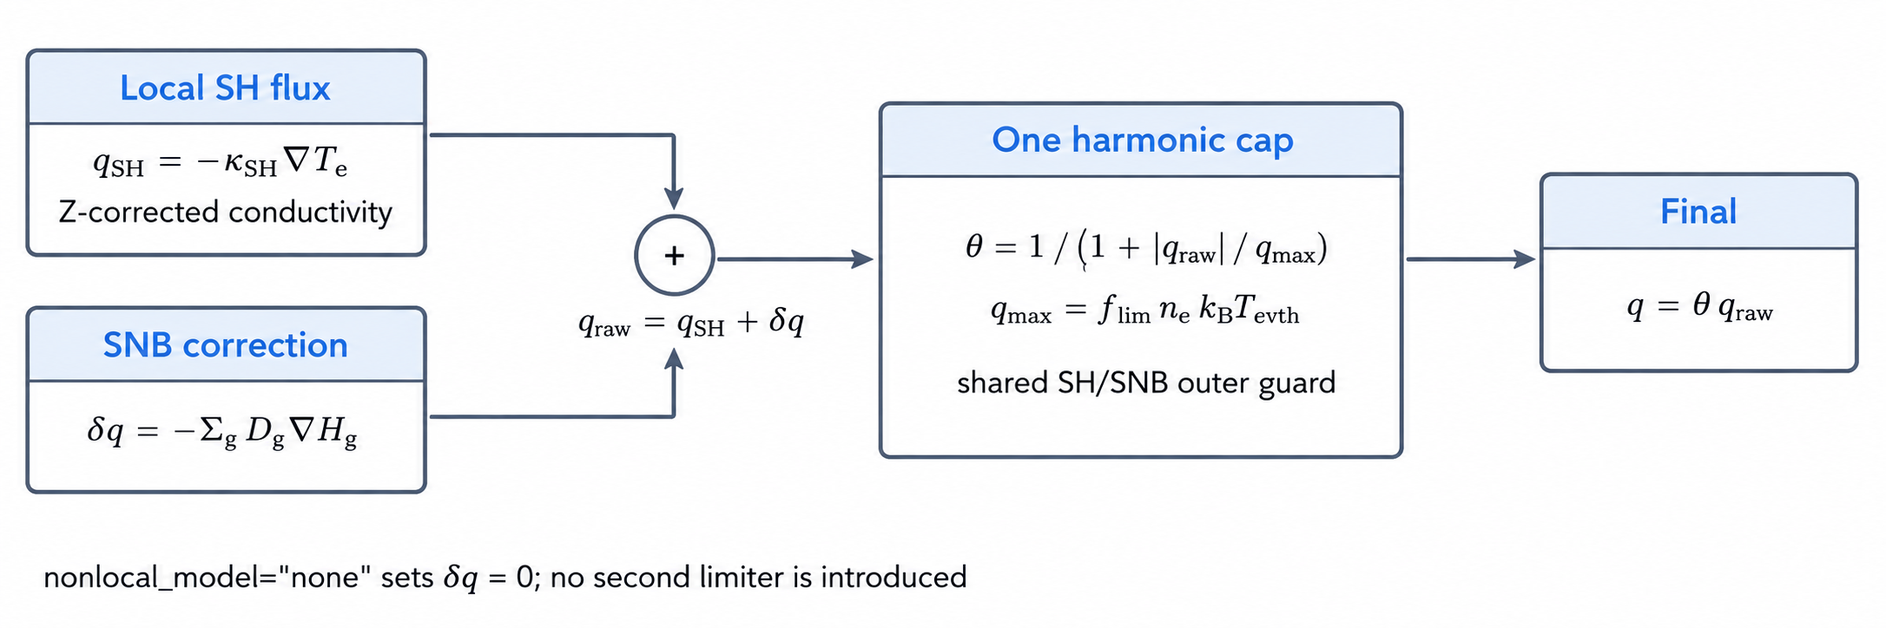
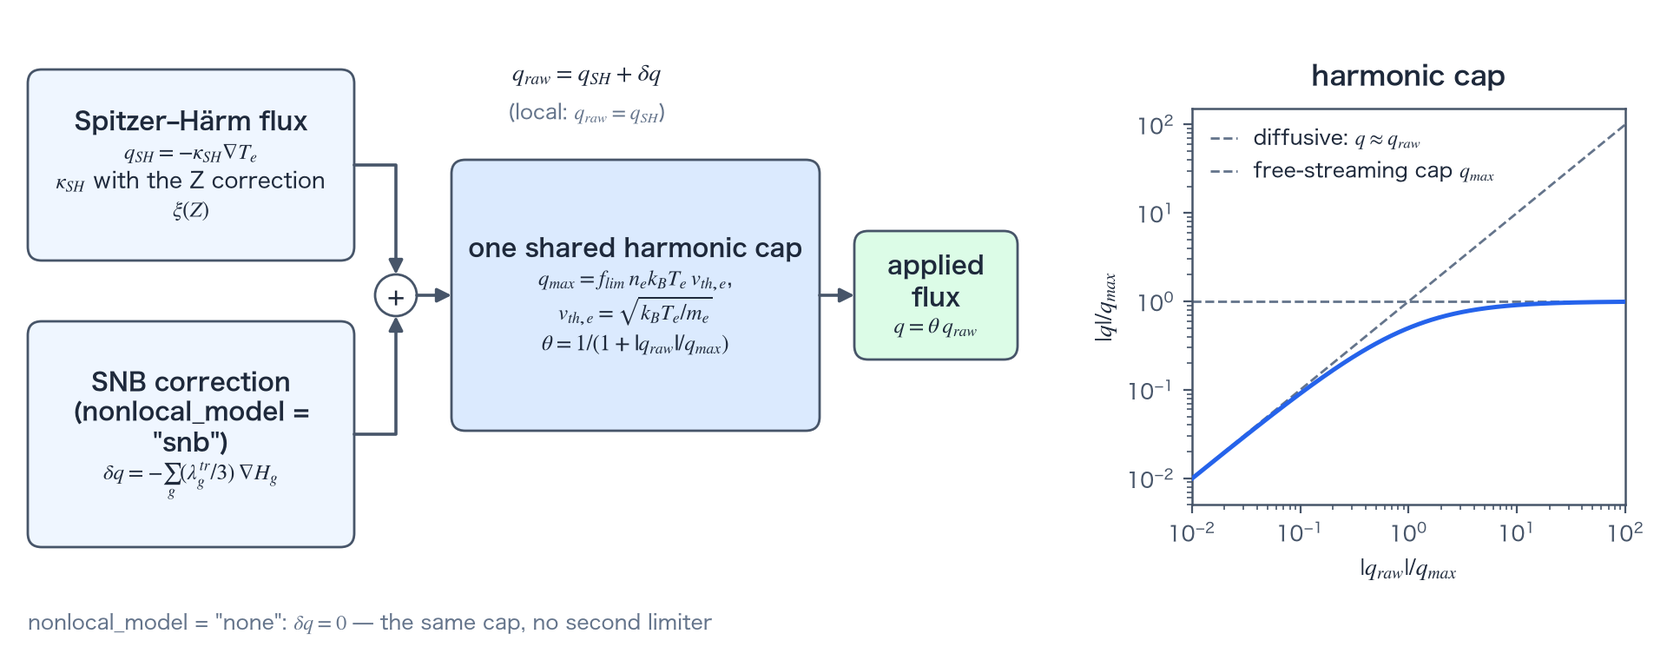
site: 18 figures recomputed from the stated physics and code; image sizes, alt text and captions updated (main@7c445c8dd)

diff --git a/ja/physics/cbet.html b/ja/physics/cbet.html
@@ -83,8 +83,8 @@
       <p>参照トレースは、セルを横切るごとに半径、方向余弦 \(\mu\)、路程 \(ds\)、入射・出射のシート、衝突径数ビンを保持する。軌道に沿う極角は \(\sqrt{1-\mu^2}/r\) をシンプソン則で累積して復元し、隣り合う光線の角度差から有限の光線束断面積を作る。折り返し点でシートを切り替える。光線族の位相空間的な折り目は火面（光線束の断面積が消える包絡面）であり、折り返し点とは一般に一致しない。折り返し点と火面のあいだの帯では光線束が退化して場の再構成が信頼できないため、この区間の交差は場の評価から除外する（Follett の field limiter に相当する処理）。ポンプ光を参照する位置を相手ポートの座標系へ逆回転した結果が、参照扇の最大極角を越える影の領域に入る場合は、その交差を、結合係数の重み付き平均（次節の式）の分子と分母の双方から除く。</p>
 
       <figure>
-        <img src="../../assets/cbet-port-section-geometry.png" width="860" height="645" style="max-width:100%;height:auto" alt="単一の参照弦の扇を二つの実ポートへ剛体回転し、球内の交差領域で CBET の対を作る図">
-        <figcaption>図A. CBET の port-section 幾何。球面上のポート配置（ここでは正二十面体状の配置を模したもの）へ同じ参照位相空間を剛体回転し、実空間で重なり合う交差だけを結合する。ポートごとの再トレースは行わない。</figcaption>
+        <img src="../../assets/cbet-port-section-geometry.png" width="900" height="560" style="max-width:100%;height:auto" alt="モデルのコロナで 1 回だけ計算した参照の弦の扇を 2 つのポートへ剛体回転し、1 つの球殻セルの中で 2 つの扇が交わる点を結合する対として示す図">
+        <figcaption>図A. CBET の port-section 幾何。1 回だけ計算した参照トレースを各ポートへ剛体回転し（図は 2 ポート）、実空間で同じセル（ここでは 1 つの球殻）に共存する交差だけを結合する。ポートごとの再トレースは行わない。</figcaption>
       </figure>
 
       <p>展開後の状態は \(A=(i,\sigma,\beta)\)、すなわちポート、シート、衝突径数ビンの組である。区画 \(m\)（方位角 \([0,2\pi)\) を等分した扇形）は状態に含めず、結合係数（次節の式）の中で和をとる。単一の参照記録を各ポートのパワー重みで複製し、正準なポート ID 順で集計し、伝播する。各セルにおける順序なしの対 \(\{A,B\}\) は一度だけ評価し、同じ量を符号を反転して両方の状態へ適用する。ここに \(N(N-1)/2\) のような規格化は入らない。ひとつの物理ビームを同方向・同波長の二つへ分割しても、重みと強度の和が等しければ結果が変わらない——このビーム分割不変性が上の規約を固定する。同一ポートの異なるシート同士の組合せも正当な対である。</p>
@@ -132,8 +132,8 @@
       <p>各ポートは \(\Delta\lambda_b\) をもち、\(\omega_b=2\pi c/(\lambda_0+\Delta\lambda_b)\) として共鳴条件の \(\Delta\omega\) に入る。v1 では軌道、\(|\mathbf{k}|\)、\(n_{crit}\) を共通の \(\lambda_0\) で凍結し、離調は共鳴条件にのみ作用させる。凍結される量のずれは相対で \(\Delta\lambda/\lambda_0\) のオーダーに留まり（\(n_{crit}\propto\lambda^{-2}\) の移動は 351 nm・0.1 nm の分割で \(2\Delta\lambda/\lambda_0\approx6\times10^{-4}\)）、サブナノメートルの GXII/OMEGA 級の離調はこの近似の内側に収まる。数 Å の NIF 級分割が<a href="#controls">後述の記録済みの注意点</a>である。Studio の「ポート波長分割」の設定は、正準なポート ID 順に \(+\Delta\lambda/2\) と \(-\Delta\lambda/2\) を交互に割り当て、二色に分けた構成を簡潔に作る。</p>
 
       <figure id="fig-cbet-detuning">
-        <img src="../../assets/cbet-pair-exchange-detuning.png" width="820" height="580" style="max-width:100%;height:auto" alt="供給側から受け取り側への CBET 交換と、波長離調で共鳴動作点が移動する利得曲線">
-        <figcaption>図B. 左：順序なし対の交換と符号付き IAW 台帳。右：波長離調は奇関数である利得曲線上の動作点を移し、転送を弱めることも、強めることも、向きを反転させることもできる。曲線の横軸は模式的である。</figcaption>
+        <img src="../../assets/cbet-pair-exchange-detuning.png" width="940" height="400" style="max-width:100%;height:auto" alt="送り手は A を失い、受け手は周波数比を掛けた量を得て、残りをイオン音波が受け取る交換と、離調で動作点が動く奇関数の応答 P(g)">
+        <figcaption>図B. 左：順序なし対の交換と符号付き IAW 台帳。右：波長離調は奇関数の応答 \(P(g)\)（\(\alpha_{iaw}=0.2\) で描画）上の動作点を移し、転送を強めることも、弱めることも、向きを反転させることもできる。</figcaption>
       </figure>
 
       <p>周波数が異なる場合、パワーを等量やり取りすると光子を生成してしまう。三波過程で保存されるのは波作用、すなわち光子数（Manley–Rowe 関係）である。送り手が \(\omega_s\) でパワー \(A\) を失うと、受け手は \(\omega_r\) で \(A(\omega_r/\omega_s)\) を受け取り、その差 \(A(1-\omega_r/\omega_s)\) がイオン音波へ供給されるパワーになる。TENRYU はこれを交換ごとに一度、符号付き台帳 <code>E_cbet_iaw</code> へ記帳する。各セルでは \(\sum_g dQ_{c,g}+Q_c^{IAW}=0\) を検査する。離調が 0 のときは、有限の周波数どうしの比 \(\omega/\omega\) が厳密に 1 になるため、受け手の利得は離調なしの経路とビット単位で一致し、IAW 項はちょうど <code>0.0</code> になる。</p>

diff --git a/en/physics/cbet.html b/en/physics/cbet.html
@@ -83,8 +83,8 @@
       <p>The reference trace retains radius, direction cosine \(\mu\), path length \(ds\), sheet, and impact bin at each cell crossing. Polar angle is reconstructed by Simpson accumulation of \(\sqrt{1-\mu^2}/r\); neighboring rays define a finite bundle area. Sheets fold at turning points. The phase-space fold of a ray family is the caustic — the envelope where the ray bundle's cross-section vanishes — and it does not in general coincide with the turning point. In the band between the turning point and the caustic the ray bundle degenerates and the field reconstruction is unreliable, so crossings in this interval are omitted from field evaluation (the counterpart of Follett's field limiter). When the inverse rotation of a crossing into the pump-port frame lands in the shadow beyond the reference fan’s maximum polar angle, that crossing is removed from both the numerator and the denominator of the coupling coefficient's weighted average (the formula in the next section).</p>
 
       <figure>
-        <img src="../../assets/cbet-port-section-geometry.png" width="860" height="645" style="max-width:100%;height:auto" alt="A single reference chord fan rigidly rotated to two physical ports, producing a highlighted CBET crossing inside a sphere">
-        <figcaption>Figure A. The same reference phase space is rigidly rotated onto an icosahedral-like port layout. Only crossings that coexist in physical space are coupled; no per-port retracing is performed.</figcaption>
+        <img src="../../assets/cbet-port-section-geometry.png" width="900" height="560" style="max-width:100%;height:auto" alt="A reference chord fan traced once in a model corona and rigidly rotated onto two ports; the crossings of the two fans inside one spherical cell are the coupled pairs">
+        <figcaption>Figure A. The reference trace is rigidly rotated onto each port (two ports shown). Only crossings that coexist in physical space, here inside one spherical cell, are coupled; no per-port retracing is performed.</figcaption>
       </figure>
 
       <p>An extended state is \(A=(i,\sigma,\beta)\): port, sheet, and impact bin. The section \(m\) (an equal sector of the azimuth \([0,2\pi)\)) is not part of the state; the coupling coefficient (next section) sums over it. Reference records are initialized with each port’s power weight, then tallied and propagated in canonical port-ID order. In each cell, every unordered pair \(\{A,B\}\) is evaluated once and applied with opposite signs. There is no \(N(N-1)/2\) normalization. Splitting one physical beam into two coincident, equal-color ports must leave the solution unchanged; this beam-splitting invariance fixes the convention. Different sheets of the same port are also legitimate pairs.</p>
@@ -132,8 +132,8 @@
       <p>Each port carries \(\Delta\lambda_b\), with \(\omega_b=2\pi c/(\lambda_0+\Delta\lambda_b)\). In v1, trajectories, \(|\mathbf{k}|\), and \(n_{crit}\) remain frozen at common \(\lambda_0\); detuning affects only the resonance. The quantities being frozen shift only at relative order \(\Delta\lambda/\lambda_0\) (\(n_{crit}\propto\lambda^{-2}\) moves by \(2\Delta\lambda/\lambda_0\approx6\times10^{-4}\) for a 0.1 nm split at 351 nm), so sub-nanometre GXII/OMEGA-scale detunings sit well inside the approximation; multi-ångström NIF-scale splits are the recorded caveat below. Studio’s port wavelength split assigns alternating \(+\Delta\lambda/2\) and \(-\Delta\lambda/2\) in canonical port order.</p>
 
       <figure id="fig-cbet-detuning">
-        <img src="../../assets/cbet-pair-exchange-detuning.png" width="820" height="580" style="max-width:100%;height:auto" alt="CBET donor-to-gainer exchange and a gain curve whose operating point moves under wavelength detuning">
-        <figcaption>Figure B. Left: one unordered exchange and its signed IAW ledger. Right: detuning moves the operating point on the odd response, weakening, strengthening, or reversing transfer. The horizontal scale is qualitative.</figcaption>
+        <img src="../../assets/cbet-pair-exchange-detuning.png" width="940" height="400" style="max-width:100%;height:auto" alt="A sender loses A, the receiver gains A times the frequency ratio and the ion-acoustic wave takes the rest; the odd response P(g) with detuning moving the operating point">
+        <figcaption>Figure B. Left: one unordered exchange and its signed IAW ledger. Right: detuning moves the operating point on the odd response \(P(g)\) (drawn for \(\alpha_{iaw}=0.2\)), strengthening, weakening, or reversing transfer.</figcaption>
       </figure>
 
       <p>At unequal frequencies an equal-power exchange would create photons: what is conserved in the three-wave process is wave action (photon number, the Manley–Rowe relations). If the sender loses power \(A\) at \(\omega_s\), the receiver gains \(A(\omega_r/\omega_s)\) at \(\omega_r\), and the Manley–Rowe deficit \(A(1-\omega_r/\omega_s)\) is the power fed to the ion-acoustic wave; TENRYU enters it once per exchange in the signed ledger <code>E_cbet_iaw</code>. Every cell asserts \(\sum_g dQ_{c,g}+Q_c^{IAW}=0\). At zero detuning, finite \(\omega/\omega\) is exactly one: receiver gain is bitwise identical to the neutral path and the IAW term is exactly <code>0.0</code>.</p>

diff --git a/ja/physics/mesh/2d.html b/ja/physics/mesh/2d.html
@@ -38,8 +38,8 @@
       <p>構造化された極座標メッシュは \((s,\theta)\mapsto(R,Z)=(s\sin\theta,s\cos\theta)\) によって半平面へ写像する。\(\theta\) は一様、区間ごとの指定、または <code>polar_equal_mu_zoning</code> による等立体角の配置から選べる。<code>polar_theta_min&gt;0</code> は三角形扇のメッシュを \([\theta_{\min},\pi]\) に切り、切断する半直線を鏡映境界、その反対側を厳密な \(R=0\) の軸とする。半径座標の下限を正に取り内側に核領域を残すものが環状、内側のリング群を単一の中心セルに置き換えて原点まで能動にするものがボタンである。箱の中の極座標は、内側の極座標部分を滑らかに矩形の外周へ変形させ、箱に沿う襟状のリングで閉じる。物体に沿ったシェルと襟の組み立て（コーンのような、截断円錐殻の壁を持つ実標的を想定した系統）は、殻の壁、壁近傍の帯、充填ガスを、隙間のないブロックとして組み合わせる。中心側で角度分割数を変える五角形帯の接続は、一般的な <code>TWO_TO_ONE</code> の接合の代わりに 5 頂点の遷移セルを置き、細かい \(\theta\) の段列を 2:1 で間引く。構造格子が暗黙の 4 コーナーの添字付けを使うのに対し、マルチブロックはセル→節点、逆向きの節点→セル、面の隣接関係を CSR 形式で保持し、接合部の節点は単一の所有側がもつ共有 ID になる。各セルは <code>cell_nverts</code> として有効な頂点数をもち、通常は <code>corner_stride=4</code>、五角形帯における多角形の容量は <code>corner_stride=8</code> である。各生成器が段階ごとに対応する物理と制約は namelist リファレンスに従う。</p>
 
       <figure>
-        <img src="../../../assets/mesh-2d-family-gallery.png" width="1000" height="310" style="max-width:100%;height:auto" alt="矩形 RZ、構造化された極座標、箱の中の極座標、五角形帯の 4 種類の 2D メッシュの模式図">
-        <figcaption>図A. 2D メッシュの系統の模式図。左の 3 つは単一の論理ブロックの代表例、右端は五角形のセルで粗いリングと細かいリングを接続する CSR の接続関係を示す。</figcaption>
+        <img src="../../../assets/mesh-2d-family-gallery.png" width="1000" height="340" style="max-width:100%;height:auto" alt="矩形 RZ、構造化された極座標、箱の中の極座標、五角形帯の 4 種類の 2D メッシュの模式図">
+        <figcaption>図A. 2D メッシュの系統の小さな例（生成器の規則で計算）。左の 3 つは単一の論理ブロックの代表例、右端は五角形のセルで粗いリングと細かいリングを接続する CSR の接続関係で、中心部を空ける環状の極座標メッシュの上に作る。</figcaption>
       </figure>
     </section>
 

diff --git a/ja/physics/radiation/fld.html b/ja/physics/radiation/fld.html
@@ -71,7 +71,7 @@
       </ul>
 
       <figure>
-        <img src="../../../assets/radiation-fld-group-fleck-flow.png" width="980" height="430" style="max-width:100%;height:auto" alt="光子エネルギー群、Fleck 線形化した源、群ごとの FLD 求解、物質エネルギー更新を結ぶ反復の流れ">
+        <img src="../../../assets/radiation-fld-group-fleck-flow.png" width="1000" height="340" style="max-width:100%;height:auto" alt="光子エネルギー群、Fleck 線形化した源、群ごとの FLD 求解、物質エネルギー更新を結ぶ反復の流れ">
         <figcaption>図A. 各群は \(f_gb_ga_{\rm eV}cT_e^4\) に比例する放出を受け取り、陰的に扱った吸収を物質へ返す。更新した \(T_e\) から群重みと係数を評価し直して、外側反復を閉じる。</figcaption>
       </figure>
     </section>
@@ -92,7 +92,7 @@
       <p>1D では、各群の行列は三重対角になる。GPU 上では群数 \(G\) を一括処理の数、セル数を系の大きさとして、<code>cusparseDgtsv2StridedBatch</code> で全群をまとめて解く。2D RZ では各セルが \(R-\)、\(R+\)、\(Z-\)、\(Z+\) の 4 つの面で隣接するセルだけと結合するため、群ごとに CSR の 5 点ステンシルを組み立てる。線形反復は共役勾配法を基礎とする。前処理は、既定の <code>linear_solver_2d="auto"</code> が設定検証の時点で格子形状から解決する：\(n_r\) が 2 の冪かつ \(n_z\ge3\) なら r 方向半粗化の幾何マルチグリッド（GMG）、それ以外で \(n_z\ge3\) なら z ラインのブロックヤコビ前処理（半径ラインごとの三重対角を厳密に解き、\(\Delta z&lt;\Delta r\) の異方ステンシルで伸びる反復を抑える）、どちらも成立しなければヤコビ前処理付き共役勾配法である。局所的なヤコビ前処理は格子が大きくなるほど収束が遅くなるのに対し、GMG は局所前処理が減衰させにくい長波長の誤差成分を粗格子の階層で処理する。解決結果は起動時に 1 回ログへ記録され、凍結後の設定にも解決後の値が入る。</p>
 
       <figure>
-        <img src="../../../assets/radiation-fld-rz-five-point.png" width="820" height="615" style="max-width:100%;height:auto" alt="RZ 構造格子上の中心セルと 4 つの面で隣接するセルからなる保存型 5 点ステンシル">
+        <img src="../../../assets/radiation-fld-rz-five-point.png" width="900" height="480" style="max-width:100%;height:auto" alt="RZ 構造格子上のセルと 4 つの面隣接セルからなる 5 点ステンシルと、その行の 5 つの格納位置">
         <figcaption>図B. 2D RZ の実運用 FLD 行列は、群ごとの 5 点 CSR ステンシルである。各面の係数は \(C_{f,g}=\Delta t\,A_fD_{f,g}/d_f\) で、共有する面には同じ値を使う。</figcaption>
       </figure>
 

diff --git a/ja/physics/mesh/ale-remap.html b/ja/physics/mesh/ale-remap.html
@@ -45,7 +45,7 @@
       <p>定期実行を待たない保護経路もある。予防的な軸ガードは、軸マージンが初期値の設定割合を下回った時点でリゾーンを強制する。軸マージンとは、軸に接するセル行が節点の移動で反転しないための幾何的な余裕を、軸行とその外側行の節点座標から閉形式で評価した量（単位 cm²）である。既定オフの流体計算前コーナーヤコビアン判定は、予測される軌道上で符号付きコーナーヤコビアンが下限に達する時刻を求め、予測される 1 ステップ分の節点変位のうち、コーナーヤコビアンが下限に達するまでに進める割合（全コーナーの最小値）がしきい値を下回るなら、演算子分割の前に ALE を起動する。参照障壁経路はさらに、軸近傍のマージン、コーナーヤコビアン比、対角コーナー長さ比を専用の発動条件として使う。</p>
 
       <figure>
-        <img src="../../../assets/ale-remap-cycle.png" width="1080" height="360" style="max-width:100%;height:auto" alt="ラグランジュ更新、発動判定、リゾーン、許容性判定、保存的リマップ、コーナー質量の再構築からなる ALE サイクル">
+        <img src="../../../assets/ale-remap-cycle.png" width="1080" height="380" style="max-width:100%;height:auto" alt="ALE サイクル。発動判定、目標メッシュのリゾーン、後退探索つきの許容性判定、保存的リマップ、コーナー質量の再構築からなり、発動しないステップと棄却された目標はラグランジュのまま進む">
         <figcaption>図A. リゾーンが提案するのは節点座標だけである。状態量の転写とコーナー質量の再構築は、目標メッシュとリマップの判定をすべて通過した取引においてのみ確定される。</figcaption>
       </figure>
     </section>
@@ -112,7 +112,7 @@
       </ul>
 
       <figure>
-        <img src="../../../assets/ale-remap-swept-region.png" width="760" height="570" style="max-width:100%;height:auto" alt="旧い面と新しい面のあいだの掃過領域と、隣接セルへの保存的な流束">
+        <img src="../../../assets/ale-remap-swept-region.png" width="820" height="440" style="max-width:100%;height:auto" alt="リゾーン前後の 1 次元の帯。セル i と i+1 の境の面がセル i+1 の側へ動くと、掃過領域はドナーのセル i+1 からセル i へ移り、セル i はセル i+1 が失った分をそのまま得る">
         <figcaption>図B. 掃過領域リマップを 1 次元の帯で表した模式図。実際の 2D RZ では、網掛けした多角形の軸対称体積と 1 次モーメントを厳密に評価する。</figcaption>
       </figure>
     </section>

diff --git a/en/physics/mesh/2d.html b/en/physics/mesh/2d.html
@@ -38,8 +38,8 @@
       <p>A structured polar mesh maps \((s,\theta)\) to \((R,Z)=(s\sin\theta,s\cos\theta)\) over the half-plane and supports uniform \(\theta\), segment-defined zoning, or equal-solid-angle nodes through <code>polar_equal_mu_zoning</code>. With <code>polar_theta_min&gt;0</code>, a tri-fan mesh is truncated to \([\theta_{\min},\pi]\); the cut ray is a mirror boundary and the opposite edge remains exactly on the \(R=0\) axis. An annular mesh takes a positive lower bound of the radial coordinate and leaves a core region inside; a button mesh replaces the inner rings by a single active center cell, staying active down to the origin. Polar-in-box smoothly morphs an inner polar prefix to a rectangular boundary and closes it with box-aligned collar rings. Body-fitted shell/collar assemblies (a family intended for real targets with truncated-cone shell walls, such as cones) combine the shell walls, near-wall strips, and gas fills as watertight blocks. Where the angular count changes toward the center, the pentagon-belt topology replaces a generic <code>TWO_TO_ONE</code> junction with five-vertex transition cells and subsamples the fine \(\theta\) ladder in a nested 2:1 pattern. Structured meshes use implicit four-corner indexing; multiblock meshes instead store cell-to-node, reverse node-to-cell, and face adjacency in CSR, with one owner-written shared node ID at each seam. Every cell supplies its active <code>cell_nverts</code>; ordinary layouts use <code>corner_stride=4</code>, while the polygon capacity for a pentagon belt uses <code>corner_stride=8</code>. The namelist reference gives each builder's staged physics scope and constraints.</p>
 
       <figure>
-        <img src="../../../assets/mesh-2d-family-gallery.png" width="1000" height="310" style="max-width:100%;height:auto" alt="Schematics of rectangular RZ, structured polar, polar-in-box, and pentagon-belt two-dimensional meshes">
-        <figcaption>Figure A. Representative 2D mesh families. The first three panels show single-logical-block forms; the final panel shows a CSR topology joining coarse and fine angular rings with five-sided cells.</figcaption>
+        <img src="../../../assets/mesh-2d-family-gallery.png" width="1000" height="340" style="max-width:100%;height:auto" alt="Schematics of rectangular RZ, structured polar, polar-in-box, and pentagon-belt two-dimensional meshes">
+        <figcaption>Figure A. Small examples of the 2D mesh families, computed from the generator rules. The first three panels show single-logical-block forms; the final panel shows a CSR topology joining coarse and fine angular rings with five-sided cells, built on an annular polar mesh whose core is left open.</figcaption>
       </figure>
     </section>
 

diff --git a/en/physics/radiation/fld.html b/en/physics/radiation/fld.html
@@ -71,7 +71,7 @@
       </ul>
 
       <figure>
-        <img src="../../../assets/radiation-fld-group-fleck-flow.png" width="980" height="430" style="max-width:100%;height:auto" alt="Iteration flow connecting photon-energy groups, the Fleck-linearized source, per-group FLD solves, and the material-energy update">
+        <img src="../../../assets/radiation-fld-group-fleck-flow.png" width="1000" height="340" style="max-width:100%;height:auto" alt="Iteration flow connecting photon-energy groups, the Fleck-linearized source, per-group FLD solves, and the material-energy update">
         <figcaption>Figure A. Every group receives emission proportional to \(f_gb_ga_{\rm eV}cT_e^4\) and returns implicit absorption to matter. The updated \(T_e\) refreshes group weights and coefficients for the outer iteration.</figcaption>
       </figure>
     </section>
@@ -92,7 +92,7 @@
       <p>In 1D, each group matrix is tridiagonal. On the GPU, \(G\) is the batch count and the number of cells is the system size for <code>cusparseDgtsv2StridedBatch</code>. In 2D RZ, each cell couples only to its \(R-\), \(R+\), \(Z-\), and \(Z+\) face neighbors, producing one CSR five-point stencil per group. Linear iteration is CG-based. The default <code>linear_solver_2d="auto"</code> resolves the preconditioner from the mesh shape at validation time: an \(n_r\) that is a power of two with \(n_z\ge3\) selects the r-semicoarsened geometric multigrid (GMG); otherwise \(n_z\ge3\) selects a z-line block-Jacobi preconditioner, which solves one tridiagonal per radial line exactly to tame the iteration growth of \(\Delta z&lt;\Delta r\) anisotropic stencils; failing both, plain Jacobi-PCG is used. Local Jacobi preconditioning converges more slowly as the grid grows, whereas GMG uses its coarse-grid hierarchy to handle the long-wavelength error components that local preconditioners damp poorly. The resolved choice is logged once at startup and written into the frozen configuration.</p>
 
       <figure>
-        <img src="../../../assets/radiation-fld-rz-five-point.png" width="820" height="615" style="max-width:100%;height:auto" alt="Conservative five-point stencil formed by a center cell and four face neighbors on a structured RZ mesh">
+        <img src="../../../assets/radiation-fld-rz-five-point.png" width="900" height="480" style="max-width:100%;height:auto" alt="Five-point stencil of a cell and its four face neighbors on the RZ grid, and the five stored slots of its matrix row">
         <figcaption>Figure B. Production 2D RZ FLD uses a five-point CSR stencil per group. Each face coefficient is \(C_{f,g}=\Delta t\,A_fD_{f,g}/d_f\), shared by the two adjacent cells.</figcaption>
       </figure>
 

diff --git a/en/physics/mesh/ale-remap.html b/en/physics/mesh/ale-remap.html
@@ -45,7 +45,7 @@
       <p>Protective paths can bypass cadence. The preventive axis guard forces rezoning when the axis margin falls below a configured fraction of its initial value. The axis margin is the geometric headroom against inversion of the axis-touching cell row under node motion, evaluated in closed form from the node coordinates of the axis row and the row outside it (units cm²). The default-off pre-hydro corner-J trigger finds where a signed corner Jacobian reaches its floor along the predicted trajectory and invokes ALE before operator splitting when the admissible fraction of the predicted one-step node displacement — how far it can proceed before a corner Jacobian reaches its floor, minimized over all corners — falls below the threshold. Reference-barrier ALE has additional near-axis margin, corner-J ratio, and diagonal-corner length-ratio triggers.</p>
 
       <figure>
-        <img src="../../../assets/ale-remap-cycle.png" width="1080" height="360" style="max-width:100%;height:auto" alt="ALE cycle from a Lagrangian step through trigger evaluation, rezoning, admissibility gates, conservative remap, and corner-mass rebuilding">
+        <img src="../../../assets/ale-remap-cycle.png" width="1080" height="380" style="max-width:100%;height:auto" alt="ALE cycle: trigger check, rezone of the target mesh, admissibility gates with backtracking, conservative remap and corner-mass rebuild; an untriggered step or a rejected target stays Lagrangian">
         <figcaption>Figure A. Rezoning proposes node coordinates only. State transfer and corner-mass rebuilding commit only when the target and remap pass every gate.</figcaption>
       </figure>
     </section>
@@ -113,7 +113,7 @@
       </ul>
 
       <figure>
-        <img src="../../../assets/ale-remap-swept-region.png" width="760" height="570" style="max-width:100%;height:auto" alt="Swept region between an old and a new face, with a conservative flux between adjacent cells">
+        <img src="../../../assets/ale-remap-swept-region.png" width="820" height="440" style="max-width:100%;height:auto" alt="One-dimensional strip before and after rezoning: the face between cells i and i+1 moves towards cell i+1, so the swept region leaves cell i+1, the donor, and joins cell i, which gains exactly what cell i+1 loses">
         <figcaption>Figure B. A one-dimensional strip view of swept-region remap. The 2D RZ implementation uses the exact axisymmetric volume and first moment of the shaded polygon.</figcaption>
       </figure>
     </section>

diff --git a/ja/overview/numerics-foundations.html b/ja/overview/numerics-foundations.html
@@ -140,7 +140,7 @@
       <p><strong>全ステップの再試行。</strong>時間刻みを先に小さく選ぶだけでは、非線形なメッシュの許容性の破れをすべて予測することはできない。ドライバ側で全ステップの再試行を有効にすると、ドライバは分割の列に入る前に状態をスナップショットとして保存する。流体の修正段が回復可能な失敗を返した場合は、途中まで進んだレーザー、エネルギー、輻射、メッシュの状態を採用せずにスナップショットを復元し、時間刻みを半分にして外側のステップ全体をやり直す。試行の回数には上限があり、上限を超えた場合は失敗として停止する。出力と累積の台帳の確定は受理のあとに置かれているため、失敗した試行の履歴やエネルギーを二重に数えることはない。</p>
 
       <figure>
-        <img src="../../assets/overview-numerics-step-flow.png" width="1040" height="480" style="max-width:100%;height:auto" alt="流体、熱伝導、利用者指定の上限、出力時刻による時間刻みの制限が合流し、レーザー、流体の半ステップ、熱伝導、輻射、流体の半ステップを進める 1 ステップの流れ図。全ステップの再試行が有効なら、受理されなかったステップは入口のスナップショットから半分の時間刻みでやり直す">
+        <img src="../../assets/overview-numerics-step-flow.png" width="1040" height="600" style="max-width:100%;height:auto" alt="1 ステップの流れ図。カーネルごとの時間刻みの上限と運用上の上限から刻みを決め、レーザー、流体の半ステップ、熱伝導、輻射、流体の半ステップ（2D RZ では ALE）を進める。流体の修正子が回復可能な失敗を報告したら入口の状態へ戻して半分の刻みでやり直し、そうでなければ確定する">
         <figcaption>図A. 外側の 1 ステップ。時間刻みの制限をまとめてから分割の列を実行し、受理された場合にだけ時刻と出力を確定する。全ステップの再試行が有効なら、受理されなかったステップは入口のスナップショットへ戻り、縮めた時間刻みで列全体をやり直す。</figcaption>
       </figure>
     </section>

diff --git a/ja/physics/conduction.html b/ja/physics/conduction.html
@@ -66,7 +66,7 @@
       </ul>
 
       <figure>
-        <img src="../../assets/conduction-flux-composition.png" width="920" height="307" style="max-width:100%;height:auto" alt="Spitzer–Härm 流束と SNB 補正を合成し、共通の調和型の上限で最終流束を得る流れ図">
+        <img src="../../assets/conduction-flux-composition.png" width="960" height="380" style="max-width:100%;height:auto" alt="Spitzer–Härm 流束と SNB 補正を合成し、共通の調和型の上限で最終流束を得る流れ図">
         <figcaption>図A. 流束の合成。<code>nonlocal_model="none"</code> では δq=0 となり、従来の制限付き SH 流束に戻る。</figcaption>
       </figure>
     </section>
@@ -136,7 +136,7 @@
       <p>ここで \(P(\beta)\) は、Spitzer–Härm 熱流束を規格化電子エネルギーについて累積した分布関数である — 流束は \(\beta^4e^{-\beta}/24\) のスペクトル重みをもち、\(P\) はその積分である。したがって ξ<sub>g</sub> は解析的な原始関数の差であり、数値求積は使わない。補正の総和は \(\delta q=-\sum_g(\lambda_g^{tr}/3)\nabla H_g\) である。セル中心の H<sub>g</sub> を体積積分した有限体積の式は厳密に対角優位な三重対角系となり、全群をストライド付きの一括処理で解く。面の拡散係数は左右の λ<sup>tr</sup> の調和平均を 3 で割った値で、閉じた境界では反射条件を課す。</p>
 
       <figure>
-        <img src="../../assets/conduction-snb-group-ladder.png" width="920" height="690" style="max-width:100%;height:auto" alt="0.1 から 20 までの SNB の等比群境界と、解析関数 P の差として得られる群重み xi の模式図">
+        <img src="../../assets/conduction-snb-group-ladder.png" width="920" height="640" style="max-width:100%;height:auto" alt="0.1 から 20 までの SNB の等比群境界と、解析関数 P の差として得られる群重み xi の模式図">
         <figcaption>図B. SNB の群の段列。大域的な β̂ の境界を物理的なエネルギーへ写し、局所的な β=E/(k<sub>B</sub>T<sub>e</sub>) における P の差を源の重みとして使う。</figcaption>
       </figure>
 

diff --git a/ja/physics/hot-electrons.html b/ja/physics/hot-electrons.html
@@ -76,8 +76,8 @@
     <section aria-labelledby="transport-deposition">
       <h2 id="transport-deposition">直線輸送とエネルギー付与</h2>
       <figure>
-        <img src="../../assets/hot-electron-generation-deposition-ja.png" width="800" height="454" style="max-width:100%;height:auto" alt="四分の一臨界密度付近の捕捉面でレーザーパワーをホット電子へ変換し、円錐状の直線経路に沿ってシェル内へ輸送・付与する模式図">
-        <figcaption>図A. 生成から付与まで。捕捉面で \(P_h=\eta(t)P^{cross}_{ray}\)（図中の表記は \(P_L^{cross}\)）を作り、多群・多方向の直線の弦としてシェルを通す。色付きの帯は衝突による減速で付与される領域、中心側の矢印は radial の検証経路における内側境界の残りの扱いを表す。</figcaption>
+        <img src="../../assets/hot-electron-generation-deposition-ja.png" width="900" height="520" style="max-width:100%;height:auto" alt="コロナで屈折したレーザー光線が四分の一臨界密度の捕捉面を横切る点でホット電子を生成し、直線の弦の円錐に沿って内向きに送ってシェルに付与する図">
+        <figcaption>図A. 生成から付与まで。捕捉面で \(P_h=\eta(t)P^{cross}_{ray}\) を作り、多群・多方向の直線の弦としてシェルを通す。色付きの帯は衝突による減速で付与される領域、茶色の矢印は radial の検証経路で、その残りは最内セルへ付与される。</figcaption>
       </figure>
       <p>輸送の経路は、屈折も散乱も受けない直線の弦である。球幾何ではシェル面との交点を解析的に求め、内向き区間、近点、外向き区間の順にたどる。出発点がセルの内部にある場合も、最初の面までの部分区間を正確に扱う。各セルでは \(n_e,T_e,\rho\) を凍結し、相対論的な速度とクーロン対数を用いる連続減速近似（CSDA）で、自由電子による減速を積分する。エネルギー積分は適応刻みの 4 次ルンゲ–クッタ法だが、台帳は常に電子数流束と入口・出口のエネルギー差から計算する。</p>
       $$

diff --git a/ja/physics/mesh/1d.html b/ja/physics/mesh/1d.html
@@ -55,7 +55,7 @@
       <p>という指数関数的な吹き出しを生成する。ここで \(\rho_0\) は標的の外面 \(R\) におけるランプの基部密度、\(L\) はその指数スケール長、\(R_{\rm corona}\) はランプの外端である。<a href="../../verification/index.html#gxii">GXII</a> の回帰試験では \(L=2\,\mu\mathrm m\)、広がり \(10\,\mu\mathrm m\)、\(\rho_0=0.05\,\mathrm{g\,cm^{-3}}\)、裾の下限 \(3\times10^{-4}\,\mathrm{g\,cm^{-3}}\) を使い、351 nm に対する CH の臨界密度 \(0.028\,\mathrm{g\,cm^{-3}}\)（完全電離 CH、\(\bar Z=3.5\)・\(\bar A=6.5\) を仮定した値）を、解像された傾斜層の内側に置いている。この傾斜層は VOID まで狭義単調でなければならず、一様な下限による平坦部を作ってはいけない。かつて存在した 3 セルの一様な低密度の平坦部が共振器として働き、わずかな逆制動輻射の沈着を種に、隣接する節点対が逆位相で動く市松型のモード（反対称な節点対）を指数関数的に成長させたためである（この数値不安定は、レーザーを切ると成長しない）。</p>
 
       <figure>
-        <img src="../../../assets/mesh-1d-regions-corona.png" width="900" height="390" style="max-width:100%;height:auto" alt="中心のガス、シェル、指数関数的なコロナ層、VOID からなる 1D の領域ペイントと、対数表示の密度分布">
+        <img src="../../../assets/mesh-1d-regions-corona.png" width="940" height="440" style="max-width:100%;height:auto" alt="GXII 回帰の標的の領域ペイント（DT ガス、CH シェル、CH コロナランプ、VOID）と対数軸の密度分布。指数関数のランプは直線で、CH の臨界密度を横切り、VOID の境界まで下限値より上にある">
         <figcaption>図A. 体積分率による 1D の領域ペイントと、解像された臨界面を含む前駆プラズマの密度。裾の下限は平坦部を作るためのものではなく安全のための値であり、実際の分布は VOID の境界まで減少する。</figcaption>
       </figure>
     </section>
